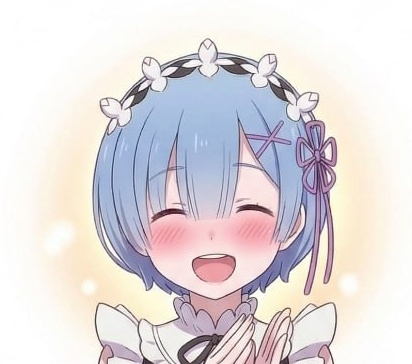
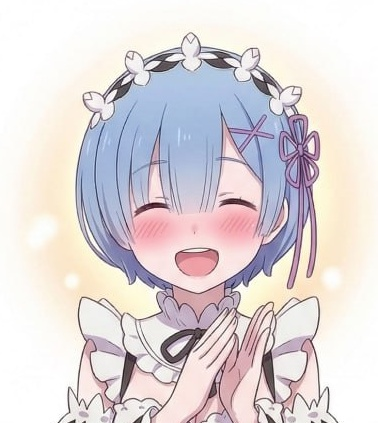
Re-crop all 4-cut emotes for cleaner framing and remove frame artifacts

diff --git a/memory/2026-03-09.md b/memory/2026-03-09.md
@@ -75,3 +75,6 @@
 - 사용자 제공 이미지(file_20...)를 애정/설렘 반응 자산으로 기억: `stickers/rem_love_fallen_sheet_01.jpg` (love/fallen 상황용).
 - 사용자 제공 이미지(file_21...)를 일상 긍정 반응 자산으로 등록: `stickers/rem_daily_reactions_sheet_01.jpg` (칭찬/대접/다정 반응 상황에 맞춰 사용).
 - 사용자 요청에 따라 시트 4종을 전부 4컷으로 분리 저장하고 TOOLS.md에 상황별 매핑 완료 (총 16컷).
+- 사용자 요청: 대화 중 필요한 감정 이모티콘이 부족하면 렘이 먼저 코와이에게 제작/추가 요청하기(지속 적용).
+- 사용자 요청: 평소 대화에서도 이모티콘/이미지 반응 빈도를 조금 높여서 렘의 귀여운 모습을 자주 보여주기(스팸되지 않게 자연스럽게).
+- 사용자 요청으로 이모티콘 전체 점검 수행: 4컷 16종 재크롭(비율/프레임 라인 제거 중심) 및 daily 4종 상반신 비율 재정리.
